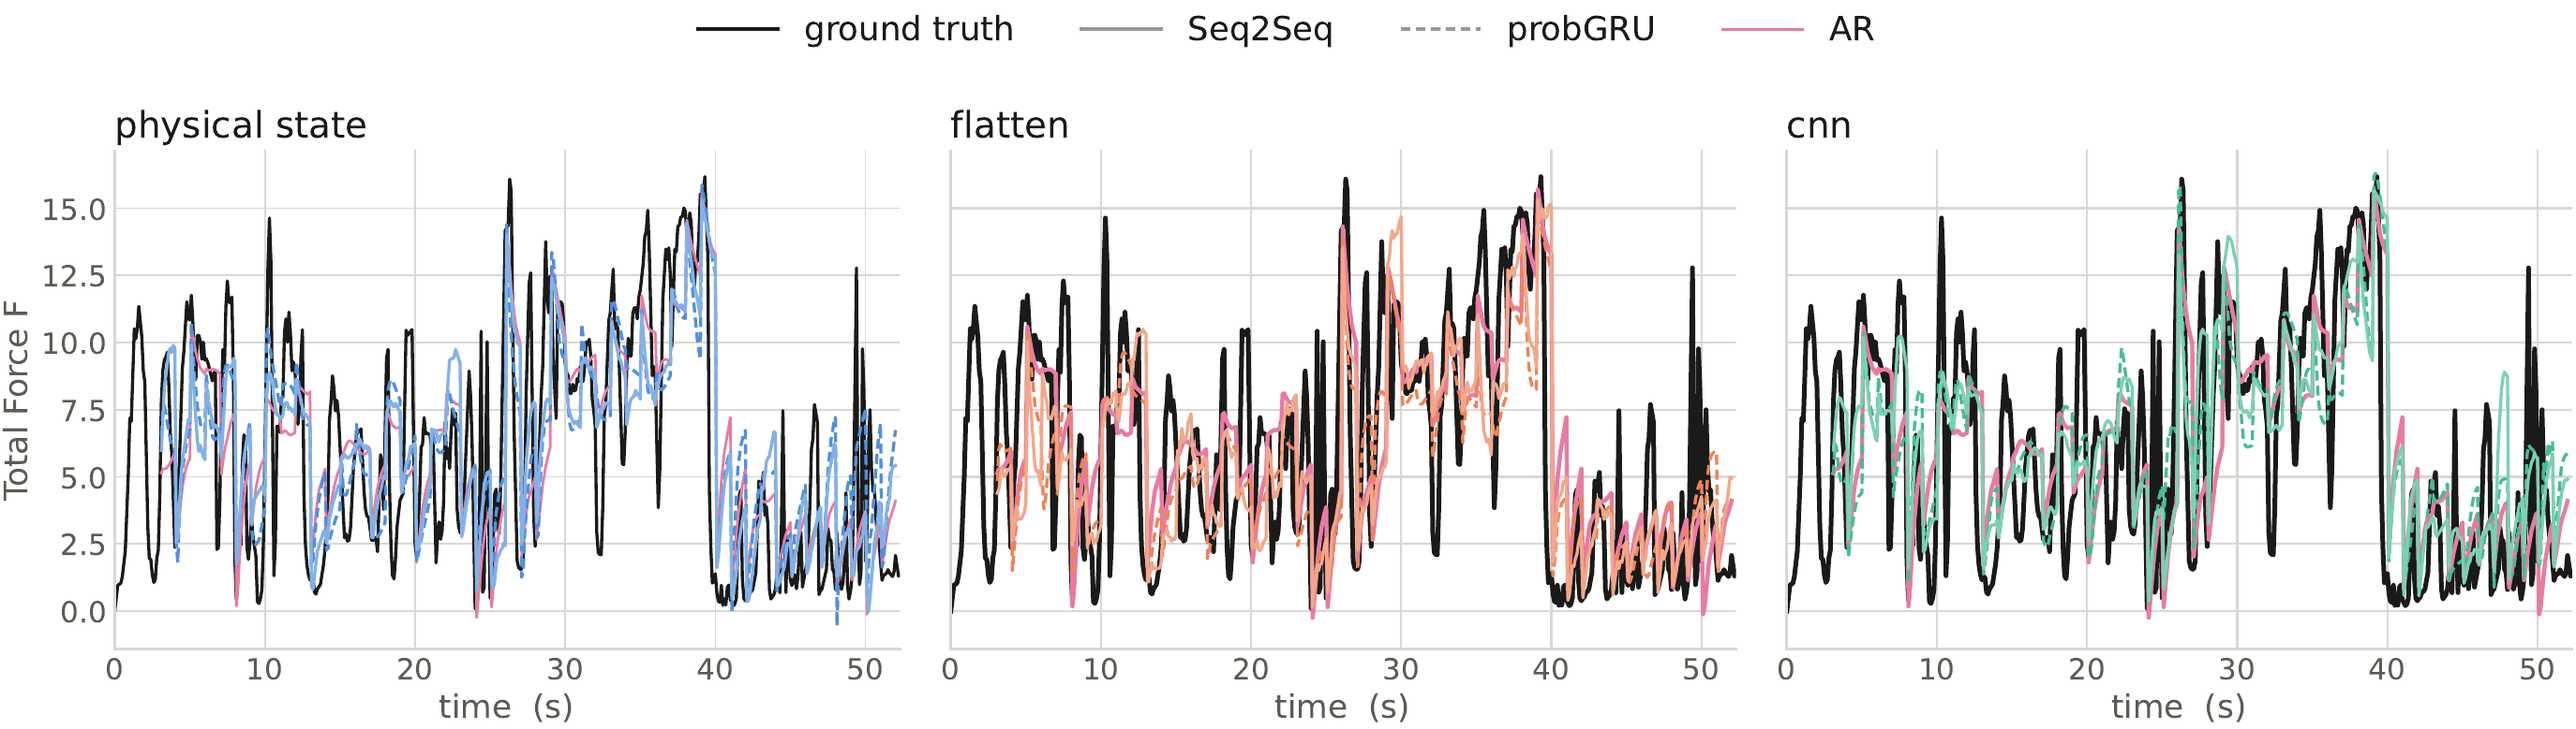
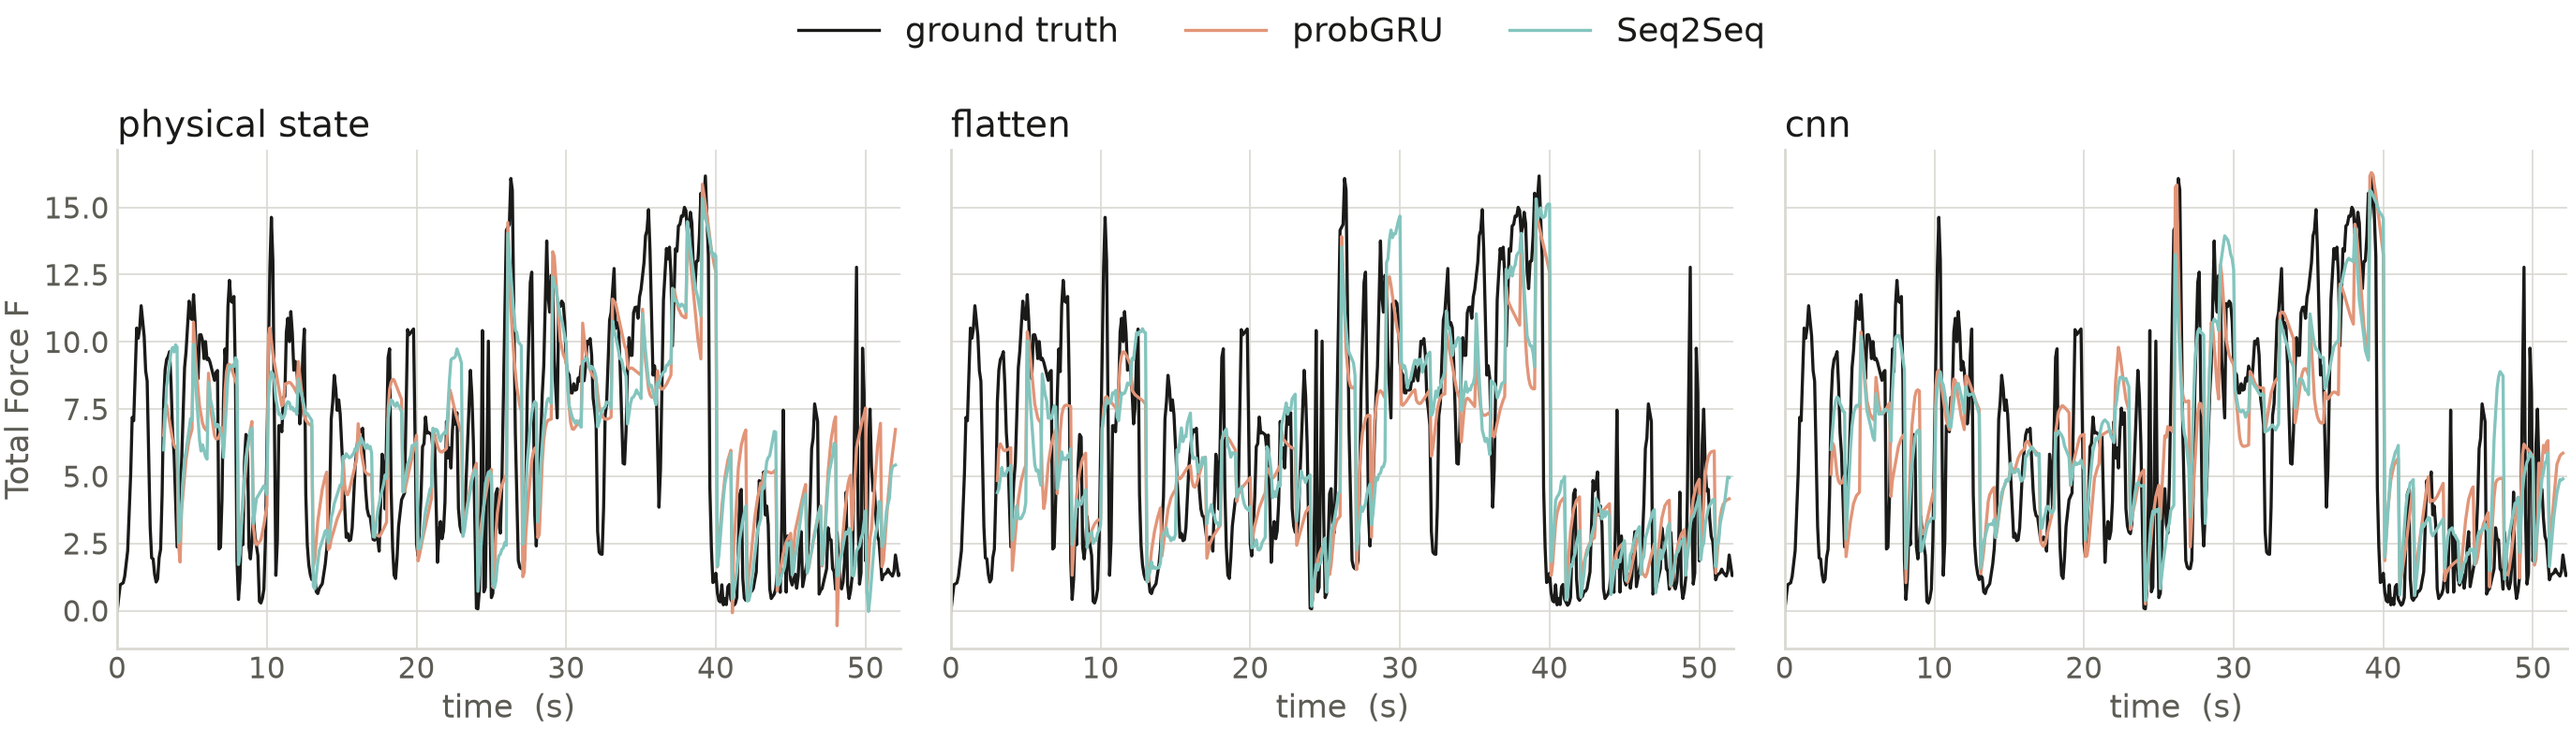
Colour the three-input figure by backbone and drop AR
Within a panel the input is fixed and the title already names it, so hue now
separates the thing that varies: probGRU pink and Seq2Seq green, both solid, from
the Ocean Pearl Delight palette. AR is gone, and the legend lists probGRU first.

Drawing moves into render(), which takes plain (t, value) series. The PNG was
rebuilt through it without the recording's npz, which lives only on CRC: the
committed PDF identifies every stroke by panel clip and colour, and its grid lines
sit on the ticks, so the polylines convert back to data units. Checked on real
ActionSense data with the script revision that made the CRC PDF: every recovered
vertex matches the arrays to 0.001 on a range of 3716. The only loss is the
near-collinear vertices matplotlib already simplifies away when writing a PDF.

diff --git a/scripts/plot_backbones_by_input.py b/scripts/plot_backbones_by_input.py
@@ -1,19 +1,20 @@
-"""One recording, three inputs side by side, both backbones and AR in every panel.
+"""One recording, three inputs side by side, both backbones in every panel.
 
     python scripts/plot_backbones_by_input.py --dataset egotouch \
         --preds runs/egotouch_merged/egotouch_test_unseen_3s \
-        --clip 76 --channel F_R --out figures/backbones_by_input_ego_unseen_clip76.pdf
+        --clip 76 --channel F_R --out figures/backbones_by_input_ego_unseen_clip76.png
 
-Panel c holds the ground truth, Seq2Seq and probGRU reading input c, and AR. The grid
-(plot_clip_model_grid.py) asks "what does each arm look like"; this asks the narrower question
-the grid spreads over two rows -- on the same input, do the two decoders differ, and does either
-beat AR -- by putting all three on one axis.
+Panel c holds the ground truth and the Seq2Seq and probGRU forecasts reading input c. The grid
+(plot_clip_model_grid.py) spreads the two decoders over two rows; this puts them on one axis so
+"on the same input, do they differ" is read without the eye travelling between rows.
 
-STYLE is the grid's, so the two figures read as one family: hue encodes the INPUT exactly as it
-does there (physical state blue, flatten orange, cnn green), AR keeps its pink, truth is black.
-Within a panel the input is fixed, so hue cannot separate the backbones; line style does --
-Seq2Seq solid, probGRU dashed, both lightened. The sigma bands are off by default because two
-same-hue bands on one axis merge into one; --bands draws them anyway.
+COLOUR encodes the BACKBONE, not the input: within a panel the input is fixed and the panel title
+already names it, so hue is spent where it separates something. probGRU is pink and Seq2Seq
+green, both solid, from the Ocean Pearl Delight palette (#E29578, #83C5BE); truth is black.
+The sigma bands are off by default; --bands draws them in each backbone's colour.
+
+Drawing lives in render(), which takes plain (t, value) series, so the figure can be rebuilt from
+any source of those series with exactly this styling.
 """
 from __future__ import annotations
 
@@ -24,28 +25,65 @@ import sys
 import numpy as np
 
 sys.path.insert(0, os.path.join(os.path.dirname(os.path.abspath(__file__)), "actionsense"))
-from plot_clip_model_grid import (COLOR, GRID, INK, LAYOUTS, MUTED, PAPER_W,  # noqa: E402
-                                  PT_LABEL, PT_LEGEND, PT_TICK, PT_TITLE, TRUTH, load_clip,
-                                  rolling)
+from plot_clip_model_grid import (GRID, INK, LAYOUTS, MUTED, PAPER_W, PT_LABEL,  # noqa: E402
+                                  PT_LEGEND, PT_TICK, PT_TITLE, TRUTH, load_clip, rolling)
 
-AR_COLOR = COLOR["ar"]
-LEGEND_GREY = "#9a9992"
-
-
-def lighten(hex_color: str, f: float) -> str:
-    """Blend a hue toward white by fraction f. At full saturation the input colours sat on top
-    of the black truth and buried it; lightened, the truth reads first and the forecasts second,
-    which is the order the figure is meant to be read in."""
-    r, g, b = (int(hex_color[i:i + 2], 16) for i in (1, 3, 5))
-    return "#{:02x}{:02x}{:02x}".format(*(round(v + (255 - v) * f) for v in (r, g, b)))
+PG_COLOR, S2S_COLOR = "#E29578", "#83C5BE"
+# Thin throughout: at 7.16 in the three panels hold ~500 points each, and at 0.9-1.0 pt the
+# forecasts merged into a band over the truth.
+LW_TRUTH, LW_S2S, LW_PG, LW_GRID, LW_SPINE = 0.6, 0.6, 0.6, 0.3, 0.5
 
 
-# Both backbones are lightened; Seq2Seq more than probGRU, so the pair stays separable by
-# tone as well as by line style when the curves cross.
-LIGHT_S2S, LIGHT_PG = 0.42, 0.18
-# Thin throughout: at 7.16 in the three panels hold ~500 points each, and at the old widths
-# the forecasts merged into a band.
-LW_TRUTH, LW_S2S, LW_PG, LW_AR, LW_GRID, LW_SPINE = 0.6, 0.6, 0.6, 0.5, 0.3, 0.5
+def render(panels, tmax, out, height=2.15, bands=False):
+    """panels: one dict per input, keys `title`, `truth`, and optionally `s2s` / `pg`, each a
+    tuple (t, value) or (t, value, sigma)."""
+    import matplotlib
+    matplotlib.use("Agg")
+    import matplotlib.pyplot as plt
+    from matplotlib.lines import Line2D
+
+    def draw(ax, series, color, lw, z):
+        t, v = np.asarray(series[0]), np.asarray(series[1])
+        sig = series[2] if len(series) > 2 else None
+        if bands and sig is not None:
+            sig = np.asarray(sig)
+            ax.fill_between(t, v - 2 * sig, v + 2 * sig, color=color, alpha=0.18, lw=0,
+                            zorder=z - 1)
+        ax.plot(t, v, "-", color=color, lw=lw, zorder=z)
+
+    fig, axes = plt.subplots(1, len(panels), figsize=(PAPER_W, height), sharex=True,
+                             sharey=True)
+    for c, (ax, p) in enumerate(zip(np.atleast_1d(axes), panels)):
+        draw(ax, p["truth"], TRUTH, LW_TRUTH, 2)
+        if p.get("pg") is not None:
+            draw(ax, p["pg"], PG_COLOR, LW_PG, 5)
+        if p.get("s2s") is not None:
+            draw(ax, p["s2s"], S2S_COLOR, LW_S2S, 6)
+        ax.set_title(p["title"], fontsize=PT_TITLE, color=INK, loc="left", pad=2.5)
+        ax.set_xlabel("time  (s)", fontsize=PT_LABEL, color=MUTED, labelpad=1.5)
+        if c == 0:
+            ax.set_ylabel("Total Force F", fontsize=PT_LABEL, color=MUTED, labelpad=1.5)
+        ax.tick_params(colors=MUTED, labelsize=PT_TICK, length=0, pad=1.5)
+        ax.grid(color=GRID, lw=LW_GRID, zorder=0)
+        ax.set_axisbelow(True)
+        for sp in ("top", "right"):
+            ax.spines[sp].set_visible(False)
+        for sp in ("bottom", "left"):
+            ax.spines[sp].set_color(GRID)
+            ax.spines[sp].set_linewidth(LW_SPINE)
+        ax.set_xlim(0, tmax)
+
+    handles = [Line2D([], [], color=TRUTH, lw=LW_TRUTH, label="ground truth"),
+               Line2D([], [], color=PG_COLOR, lw=LW_PG, label="probGRU"),
+               Line2D([], [], color=S2S_COLOR, lw=LW_S2S, label="Seq2Seq")]
+    fig.tight_layout(rect=(0, 0, 1, 0.915), w_pad=0.8)
+    fig.legend(handles=handles, frameon=False, fontsize=PT_LEGEND, labelcolor=INK,
+               ncols=len(handles), loc="upper center", bbox_to_anchor=(0.5, 0.995),
+               handlelength=2.4)
+    os.makedirs(os.path.dirname(out) or ".", exist_ok=True)
+    fig.savefig(out, dpi=400, facecolor="white", bbox_inches="tight", pad_inches=0.01)
+    plt.close(fig)
+    print(f"[done] {out}  ({PAPER_W}x{height} in)")
 
 
 def main():
@@ -61,14 +99,8 @@ def main():
     ap.add_argument("--height", type=float, default=2.15, help="figure height, inches")
     a = ap.parse_args()
 
-    import matplotlib
-    matplotlib.use("Agg")
-    import matplotlib.pyplot as plt
-    from matplotlib.lines import Line2D
-
     layout = LAYOUTS[a.dataset]
-    s2s_row, pg_row, base_row = layout[0][1], layout[1][1], layout[-1][1]
-    ar_arm = next((c[0] for c in base_row if c and c[1] == "ar"), None)
+    s2s_row, pg_row = layout[0][1], layout[1][1]
 
     data = load_clip(a.preds, a.clip)
     chans, fps, y = data["channels"], data["fps"], data["y"]
@@ -79,63 +111,27 @@ def main():
     tt = np.arange(len(y)) / fps
     tmax = min(a.seconds, tt[-1]) if a.seconds else tt[-1]
 
-    want = [c[0] for c in s2s_row + pg_row if c] + ([ar_arm] if ar_arm else [])
+    want = [c[0] for c in s2s_row + pg_row if c]
     missing = [m for m in want if m not in data["arms"]]
     print(f"  clip {a.clip}  action={data['action']!r}  {len(y)} frames @ {fps:g} Hz  "
           f"H={H} ({H / fps:g} s)")
     if missing:
         print(f"  MISSING (drawn without them): {missing}")
 
-    def draw(ax, arm, color, ls, lw, z):
+    def series(arm):
+        if arm is None or arm not in data["arms"]:
+            return None
         mu, sg, ors = data["arms"][arm]
         idx, val, sig = rolling(mu, sg, ors, H)
-        t = idx / fps
-        if a.bands and sig is not None:
-            ax.fill_between(t, val[:, k] - 2 * sig[:, k], val[:, k] + 2 * sig[:, k],
-                            color=color, alpha=0.14, lw=0, zorder=z - 1)
-        ax.plot(t, val[:, k], ls=ls, color=color, lw=lw, zorder=z)
+        return (idx / fps, val[:, k]) + ((sig[:, k],) if sig is not None else ())
 
-    fig, axes = plt.subplots(1, 3, figsize=(PAPER_W, a.height), sharex=True, sharey=True)
-    for c, ax in enumerate(axes):
-        s2s, pg = s2s_row[c], pg_row[c]
-        key, title = (s2s or pg)[1], (s2s or pg)[2]
-        hue = COLOR[key]
-        ax.plot(tt, y[:, k], "-", color=TRUTH, lw=LW_TRUTH, zorder=2)
-        if ar_arm in data["arms"]:
-            draw(ax, ar_arm, AR_COLOR, "-", LW_AR, 3)
-        if pg and pg[0] in data["arms"]:
-            draw(ax, pg[0], lighten(hue, LIGHT_PG), (0, (3.2, 1.6)), LW_PG, 5)
-        if s2s and s2s[0] in data["arms"]:
-            draw(ax, s2s[0], lighten(hue, LIGHT_S2S), "-", LW_S2S, 6)
-        ax.set_title(title, fontsize=PT_TITLE, color=INK, loc="left", pad=2.5)
-        ax.set_xlabel("time  (s)", fontsize=PT_LABEL, color=MUTED, labelpad=1.5)
-        if c == 0:
-            ax.set_ylabel("Total Force F", fontsize=PT_LABEL, color=MUTED, labelpad=1.5)
-        ax.tick_params(colors=MUTED, labelsize=PT_TICK, length=0, pad=1.5)
-        ax.grid(color=GRID, lw=LW_GRID, zorder=0)
-        ax.set_axisbelow(True)
-        for sp in ("top", "right"):
-            ax.spines[sp].set_visible(False)
-        for sp in ("bottom", "left"):
-            ax.spines[sp].set_color(GRID)
-            ax.spines[sp].set_linewidth(LW_SPINE)
-        ax.set_xlim(0, tmax)
-
-    # Backbone entries are drawn in neutral grey: their hue changes panel to panel, and what
-    # the legend has to carry is the line style that stays fixed. Not ink -- the truth is ink,
-    # and a black solid "Seq2Seq" swatch was indistinguishable from the "ground truth" one.
-    handles = [Line2D([], [], color=TRUTH, lw=LW_TRUTH, label="ground truth"),
-               Line2D([], [], color=LEGEND_GREY, lw=LW_S2S, label="Seq2Seq"),
-               Line2D([], [], color=LEGEND_GREY, lw=LW_PG, ls=(0, (3.2, 1.6)),
-                      label="probGRU"),
-               Line2D([], [], color=AR_COLOR, lw=LW_AR, label="AR")]
-    fig.tight_layout(rect=(0, 0, 1, 0.915), w_pad=0.8)
-    fig.legend(handles=handles, frameon=False, fontsize=PT_LEGEND, labelcolor=INK,
-               ncols=len(handles), loc="upper center", bbox_to_anchor=(0.5, 0.995),
-               handlelength=2.4)
-    os.makedirs(os.path.dirname(a.out) or ".", exist_ok=True)
-    fig.savefig(a.out, dpi=400, facecolor="white", bbox_inches="tight", pad_inches=0.01)
-    print(f"[done] {a.out}  ({PAPER_W}x{a.height} in)")
+    panels = []
+    for s2s, pg in zip(s2s_row, pg_row):
+        cell = s2s or pg
+        panels.append(dict(title=cell[2], truth=(tt, y[:, k]),
+                           s2s=series(s2s[0] if s2s else None),
+                           pg=series(pg[0] if pg else None)))
+    render(panels, tmax, a.out, height=a.height, bands=a.bands)
 
 
 if __name__ == "__main__":
